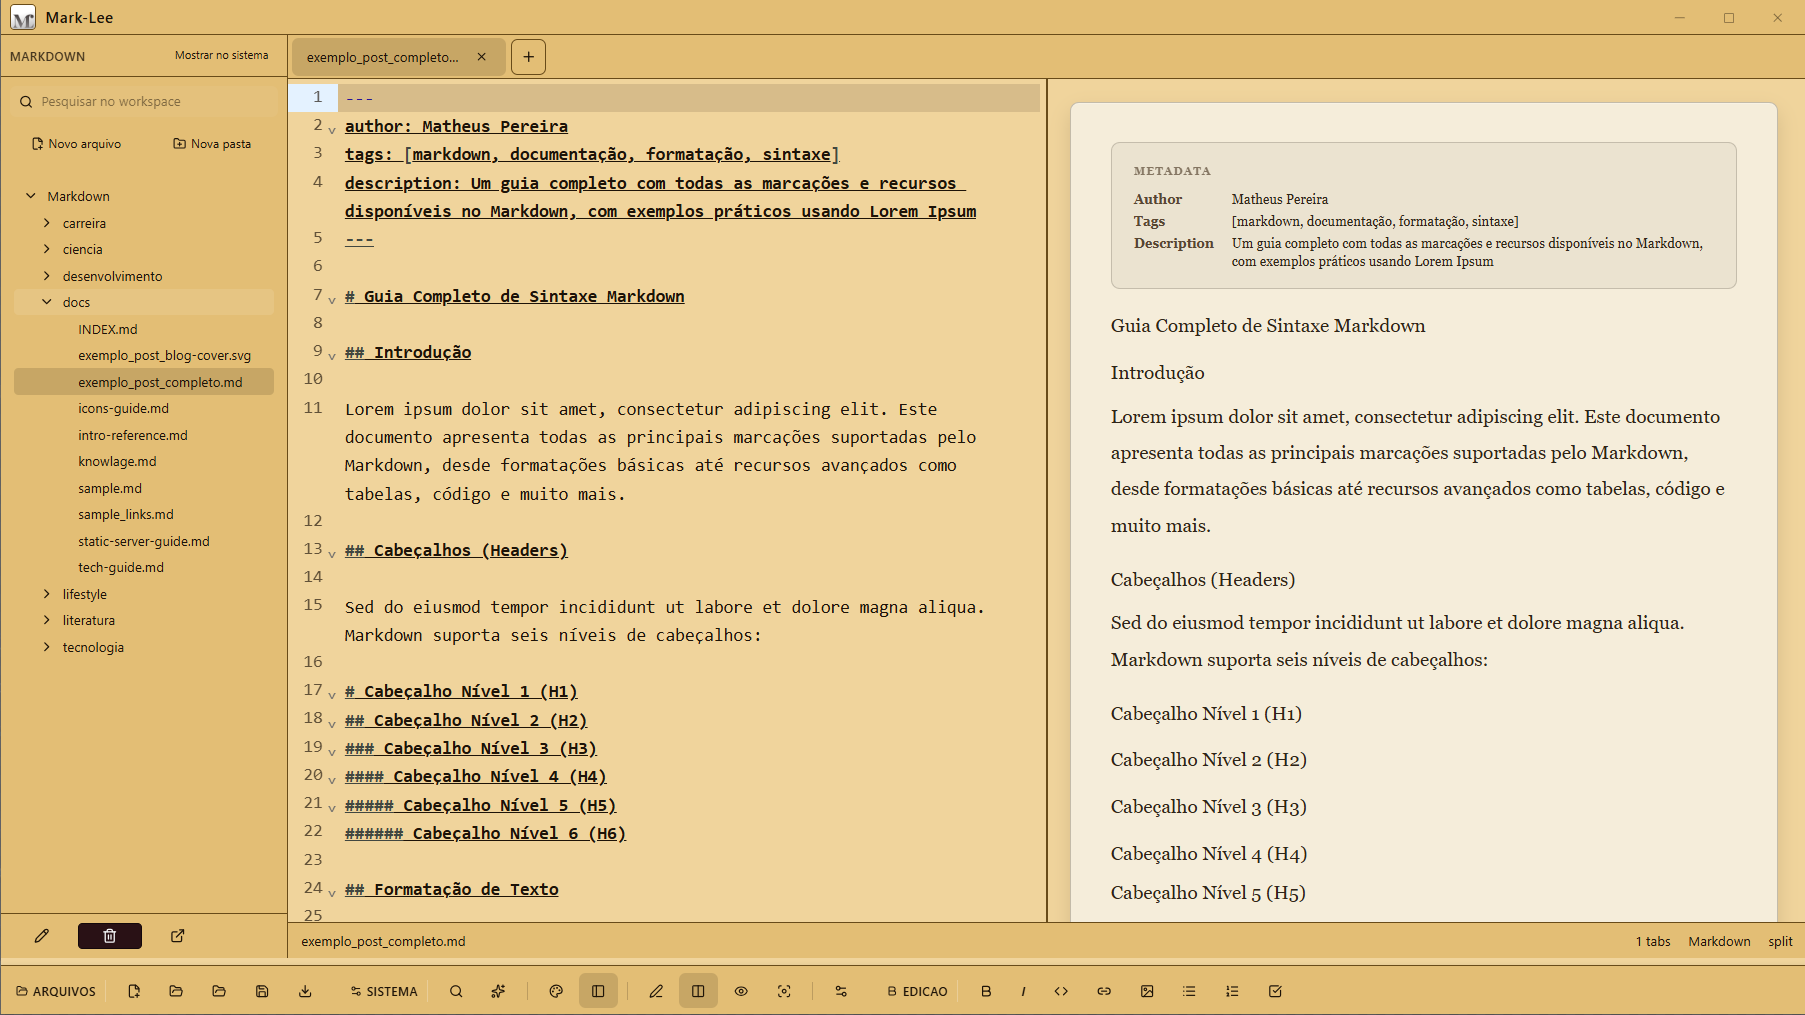
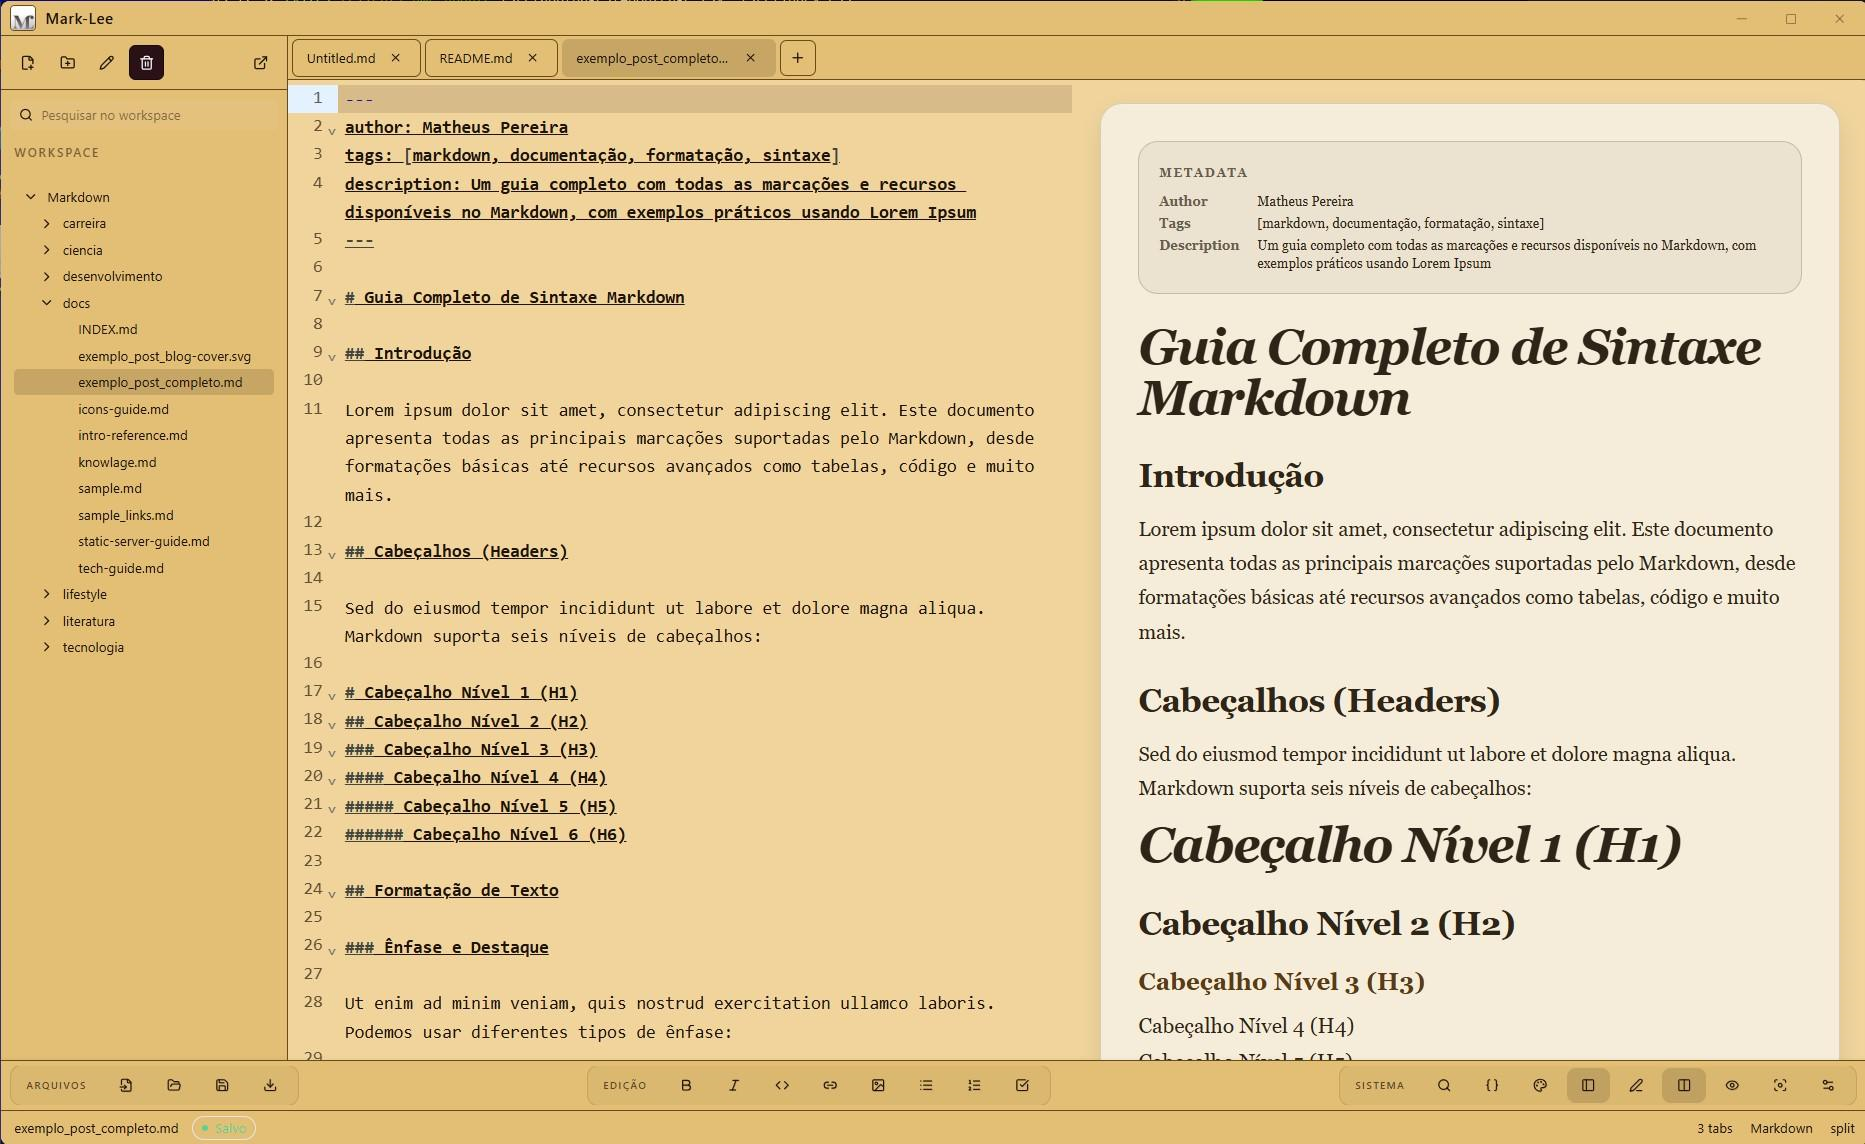
Refresh README screenshots and button styling

Changed region(s): [[0.0, 0.0, 1.0, 1.0], [0.9307, 0.0, 0.9928, 0.0305]]

diff --git a/src/index.css b/src/index.css
@@ -108,13 +108,19 @@
 }
 
 .ml-btn-danger {
-  background: #2b1115;
-  border: 1px solid #14080b;
-  color: #f8fafc;
+  border: 1px solid transparent;
+  color: color-mix(in srgb, #b42318 78%, var(--ml-fg, #111827) 22%);
+  background: transparent;
 }
 
 .ml-btn-danger:hover {
-  background: #3a141b;
+  background: color-mix(in srgb, #b42318 14%, transparent);
+  border-color: color-mix(in srgb, #b42318 26%, transparent);
+}
+
+.ml-btn-danger:focus-visible {
+  outline: 2px solid color-mix(in srgb, #b42318 34%, transparent);
+  outline-offset: 1px;
 }
 
 .ml-color-input {

diff --git a/README.pt-BR.md b/README.pt-BR.md
@@ -9,7 +9,7 @@
   <a href="README.es.md">Espanol</a>
 </p>
 
-Mark-Lee e um editor Markdown desktop projetado para desempenho e foco, unindo tecnologias web modernas com capacidades nativas do sistema operacional atraves do framework Tauri. Ele oferece um ambiente de escrita sem distracoes com renderizacao de preview em tempo real e gerenciamento robusto de arquivos.
+Mark-Lee e um editor Markdown desktop projetado para desempenho e foco, unindo tecnologias web modernas com capacidades nativas do sistema operacional atraves do framework Tauri. Ele oferece um ambiente de escrita sem distracoes com abas, navegacao por workspace, preview em split e gerenciamento robusto de arquivos.
 
 ![App Screenshot](assets/screen.png)
 
@@ -17,6 +17,8 @@ Mark-Lee e um editor Markdown desktop projetado para desempenho e foco, unindo t
 
 - **Modo Zen** - A interface desaparece quando voce para de mover o mouse
 - **Modo Foco** - Destaque apenas para o paragrafo ativo
+- **Workspace com Abas** - Trabalhe com varios arquivos Markdown usando a arvore lateral
+- **Preview em Split** - Edite e confira o documento renderizado lado a lado
 - **Rolagem Sincronizada** - Editor e preview se movem juntos
 - **Exportacao PDF Profissional** - Layout A4 e tipografia limpa para impressao
 - **9 Temas** - Claro, Escuro, Meia-noite, Sepia, Nord, Synthwave, Forest, Coffee, Terminal
@@ -219,7 +221,7 @@ Pronto! Sua release esta no ar e os usuarios podem baixar os instaladores.
 | `logo-icon.svg` | Fonte do icone para gerar formatos Tauri |
 | `logo-bg_blk.svg` | Logo para temas claros (toolbar) |
 | `logo-bg_gray.svg` | Logo para temas escuros (toolbar) |
-| `screen.png` | Screenshot para documentacao |
+| `screen.png` | Screenshot atual para documentacao |
 
 ---
 
@@ -229,7 +231,7 @@ A aplicacao implementa varias otimizacoes:
 
 - **Lazy Loading**: ReactMarkdown e carregado apenas quando necessario
 - **Debounce de 150ms**: Preview nao atualiza enquanto digita rapido
-- **Code Splitting**: React e Markdown sao chunks separados (~4KB gzip cada)
+- **Code Splitting**: Editor, Markdown, React e parsers sao separados em bundles menores
 - **Frameless Window**: Menor overhead de renderizacao
 
 ### Quando Minimizada

diff --git a/README.md b/README.md
@@ -9,7 +9,7 @@
   <a href="README.es.md">Espanol</a>
 </p>
 
-Mark-Lee is a desktop Markdown editor engineered for performance and focus, bridging modern web technologies with native operating system capabilities through the Tauri framework. It provides a distraction-free writing environment with real-time preview rendering and robust file management.
+Mark-Lee is a desktop Markdown editor engineered for performance and focus, bridging modern web technologies with native operating system capabilities through the Tauri framework. It provides a distraction-free writing environment with tabs, workspace navigation, split preview, and robust file management.
 
 ![App Screenshot](assets/screen.png)
 
@@ -17,6 +17,8 @@ Mark-Lee is a desktop Markdown editor engineered for performance and focus, brid
 
 - **Zen Mode** - UI fades away when you stop moving the mouse
 - **Focus Mode** - Spotlight effect highlighting only the active paragraph
+- **Tabbed Workspace** - Work across multiple Markdown files with a file tree sidebar
+- **Split Preview** - Edit and inspect the rendered document side by side
 - **Synchronized Scrolling** - Editor and preview move together
 - **Professional PDF Export** - A4 layout with clean typography for printing
 - **9 Themes** - Light, Dark, Midnight, Sepia, Nord, Synthwave, Forest, Coffee, Terminal
@@ -254,7 +256,7 @@ Done! Your release is now live and users can download the installers.
 | `logo-icon.svg` | Icon source for Tauri icons |
 | `logo-bg_blk.svg` | Logo for light themes (toolbar) |
 | `logo-bg_gray.svg` | Logo for dark themes (toolbar) |
-| `screen.png` | Screenshot for documentation |
+| `screen.png` | Current screenshot for documentation |
 
 ---
 
@@ -264,7 +266,7 @@ The application implements several optimizations:
 
 - **Lazy Loading**: ReactMarkdown is loaded only when needed
 - **150ms Debounce**: Preview doesn't update while typing fast
-- **Code Splitting**: React and Markdown are separate chunks (~4KB gzip each)
+- **Code Splitting**: Editor, Markdown, React, and parser bundles are split for faster loading
 - **Frameless Window**: Lower rendering overhead
 
 ### When Minimized

diff --git a/README.es.md b/README.es.md
@@ -9,7 +9,7 @@
   <a href="README.pt-BR.md">Portugues</a>
 </p>
 
-Mark-Lee es un editor Markdown de escritorio disenado para rendimiento y concentracion, uniendo tecnologias web modernas con capacidades nativas del sistema operativo a traves del framework Tauri. Ofrece un entorno de escritura sin distracciones con renderizado de vista previa en tiempo real y gestion robusta de archivos.
+Mark-Lee es un editor Markdown de escritorio disenado para rendimiento y concentracion, uniendo tecnologias web modernas con capacidades nativas del sistema operativo a traves del framework Tauri. Ofrece un entorno de escritura sin distracciones con pestanas, navegacion por workspace, vista previa en split y gestion robusta de archivos.
 
 ![App Screenshot](assets/screen.png)
 
@@ -17,6 +17,8 @@ Mark-Lee es un editor Markdown de escritorio disenado para rendimiento y concent
 
 - **Modo Zen** - La interfaz desaparece cuando dejas de mover el raton
 - **Modo Enfoque** - Efecto de foco destacando solo el parrafo activo
+- **Workspace con Pestanas** - Trabaja con varios archivos Markdown usando el arbol lateral
+- **Vista Previa en Split** - Edita e inspecciona el documento renderizado lado a lado
 - **Desplazamiento Sincronizado** - Editor y vista previa se mueven juntos
 - **Exportacion PDF Profesional** - Diseno A4 con tipografia limpia para impresion
 - **9 Temas** - Claro, Oscuro, Medianoche, Sepia, Nord, Synthwave, Forest, Coffee, Terminal
